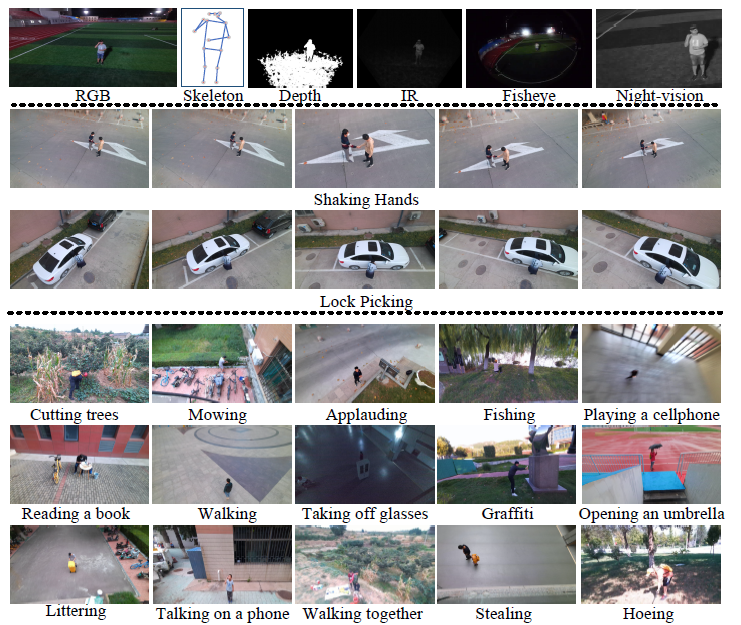
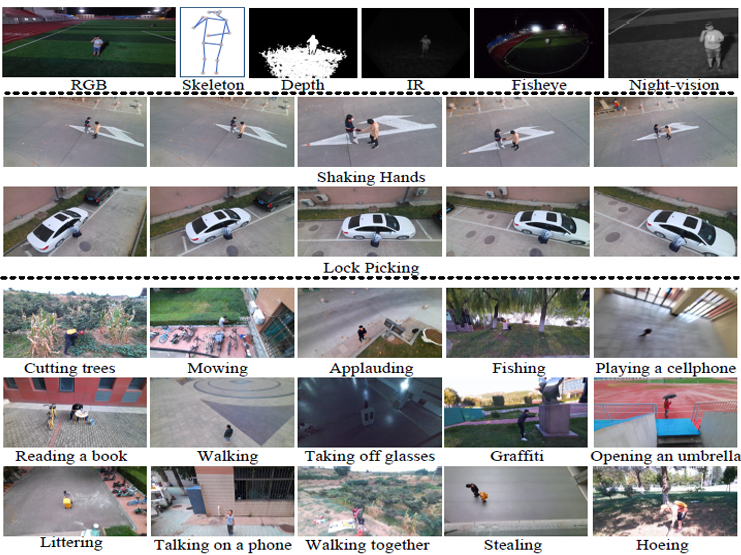
Update to projects

diff --git a/projects.html b/projects.html
@@ -5,22 +5,45 @@ permalink: /projects/
 ---
 
 <div class="row">
-    <div class="col-12 col-md-4">
+    <div class="col-12 col-md-4 mb-5">
+        <div class="project-image mb-3">
+            <img src="/assets/projects/sstmap.png">
+        </div>
+        <h3 class="font-weight-bold">Generative modelling of ocean temperature</h3>
+        <p>
+            <a href="{% post_url 2023-01-29-generative-modelling-of-sea-surface-temperature-with-normalizing-flows %}">Article</a>&nbsp;&nbsp;
+            <a href="https://github.com/saschagaudlitz/Flash">Code</a>
+        </p>
+        <p>Joint work on deep flow-based generative model of the evolution of ocean temperature for <a href="https://www.polytechnique.edu/en/education/academic-and-research-departments/applied-mathematics-department-depmap/student-event/genhack-2-hackathon-generative-modelling">GenHack2</a>.</p>
+    </div>
+    <div class="col-12 col-md-4 mb-5">
         <div class="project-image mb-3">
             <img src="/assets/projects/bloodcell.png">
         </div>
-        <h3 class="font-weight-bold">White Blood Cell Classification</h3>
+        <h3 class="font-weight-bold">White blood cell classification</h3>
         <p>
             <a href="{% post_url 2022-12-22-white-blood-cell-classification %}">Article</a>&nbsp;&nbsp;
             <a href="https://github.com/starovoitovs/wbc">Code</a>
         </p>
-        <p>Joint work on domain adaptation exercise from the hackathon <a href="https://www.helmholtz-hida.de/en/events/data-challenge-help-a-hematologist-out/">Help A Hematologist Out</a> by HIDA.</p>
+        <p>Joint work on domain adaptation exercise from the <a href="https://www.helmholtz-hida.de/en/events/data-challenge-help-a-hematologist-out/">Help A Hematologist
+            Out</a> hackathon by HIDA.</p>
     </div>
-    <div class="col-12 col-md-4">
+    <div class="col-12 col-md-4 mb-5">
+        <div class="project-image mb-3">
+            <img src="/assets/projects/deep-fbsde.png">
+        </div>
+        <h3 class="font-weight-bold">Deep solver for FBSDE with jumps</h3>
+        <p>
+            <a href="{% post_url 2022-11-17-deep-solver-for-fbsde-with-jumps %}">Article</a>&nbsp;&nbsp;
+            <a href="https://github.com/starovoitovs/deepfbsde">Code</a>
+        </p>
+        <p>Joint work on deep solver for forward-backward SDE in a multi-GPU cluster from <a href="https://www.aicampus.berlin/event/helmholtz-gpu-hackathon-2022">Helmholtz GPU Hackathon</a>.</p>
+    </div>
+    <div class="col-12 col-md-4 mb-5">
         <div class="project-image mb-3">
             <img src="/assets/projects/uav.png">
         </div>
-        <h3 class="font-weight-bold">Human Action Recognition</h3>
+        <h3 class="font-weight-bold">Human action recognition</h3>
         <p>
             <a href="{% post_url 2021-06-10-human-action-recognition-with-log-signatures %}">Article</a>&nbsp;&nbsp;
             <a href="/assets/pdf/logsigrnn.pdf">Presentation</a>&nbsp;&nbsp;
@@ -28,11 +51,12 @@ permalink: /projects/
         </p>
         <p>Joint work on classification of human actions from skeletal sequences using signature-based algorithm.</p>
     </div>
-    <div class="col-12 col-md-4">
+
+    <div class="col-12 col-md-4 mb-5">
         <div class="project-image mb-3">
             <img src="/assets/projects/cfd.png">
         </div>
-        <h3 class="font-weight-bold">Karman Vortex Street</h3>
+        <h3 class="font-weight-bold">Karman vortex street simulation</h3>
         <p><a href="https://imgur.com/a/Paf2qQP">Demo</a>&nbsp;&nbsp;<a href="https://github.com/starovoitovs/fluid/">Code</a></p>
         <p>Joint practical lab in computational fluid dynamics.</p>
     </div>
